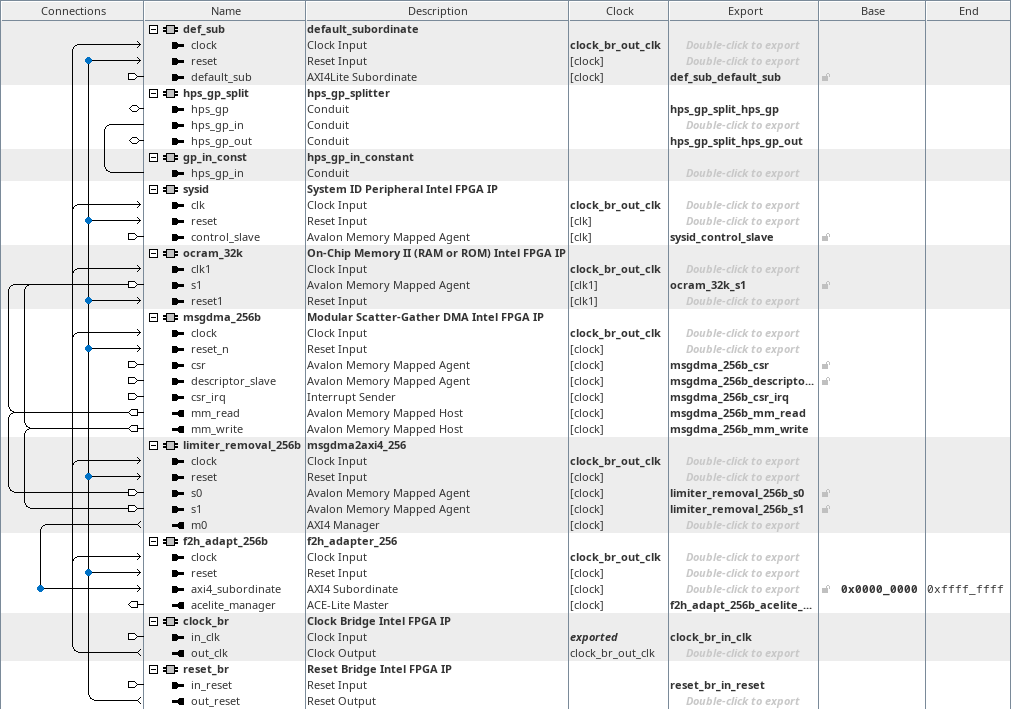
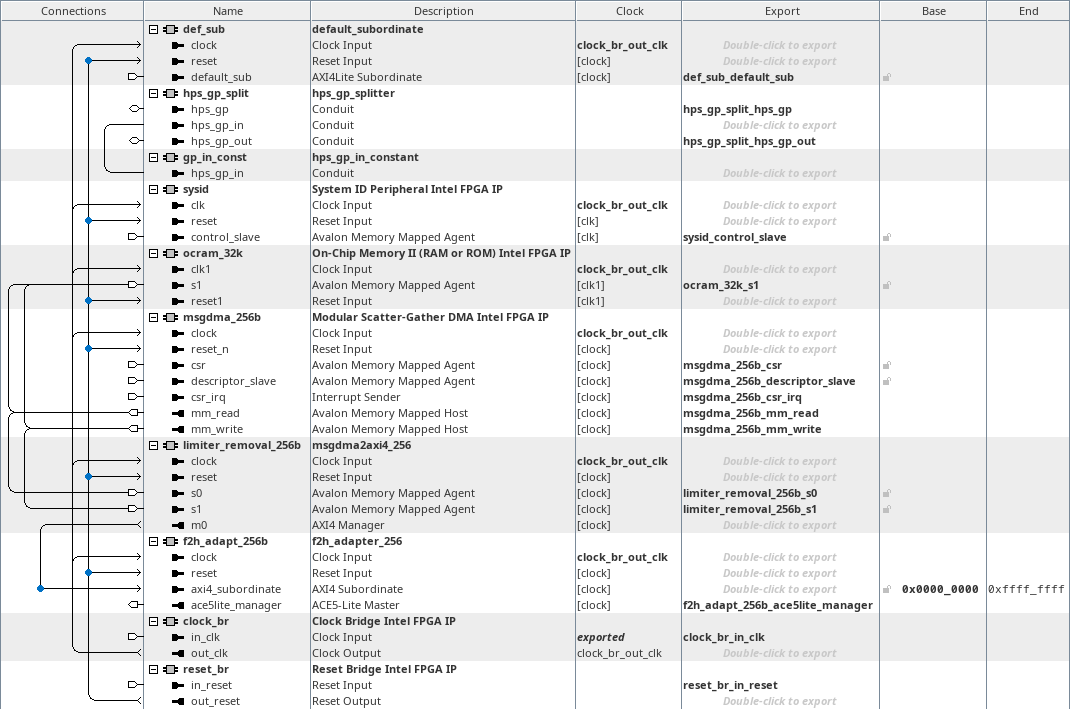
Update documentation images
Some of the screen captures from the QPDS 24.3 tools release are very
different from previous releases. Updating those screen shots from the
24.3 tools.

diff --git a/documentation/04_menu_il_hw_f2h_irq.md b/documentation/04_menu_il_hw_f2h_irq.md
@@ -25,15 +25,13 @@ The menu-i, f2h irq demo, and the menu-l, f2h irq handler demo, use the same har
 
 | hw_f2h_irq top level |
 | :---: |
-| ![hw_f2h_irq_top_lo.png](./images/captures/hw_f2h_irq_top_lo.png) |
-| ![hw_f2h_irq_top_hi.png](./images/captures/hw_f2h_irq_top_hi.png) |
+| ![hw_f2h_irq_top.png](./images/captures/hw_f2h_irq_top.png) |
 
 Inside the f2h_irq subsystem, we instantiate an hp_gp_splitter core and then drive a constant into the hps_gp_in interface and we take the hps_gp_out interface into an hps_gp_out_irq core that converts the lower six bits of the hps_gp_out interface into a 64-bit vector value when then connects into the f2h_irq interface.
 
 | f2h_irq subsystem |
 | :---: |
-| ![hw_f2h_irq_subsys_lo.png](./images/captures/hw_f2h_irq_subsys_lo.png) |
-| ![hw_f2h_irq_subsys_hi.png](./images/captures/hw_f2h_irq_subsys_hi.png) |
+| ![hw_f2h_irq_subsys.png](./images/captures/hw_f2h_irq_subsys.png) |
 
 ## Software demo - u-boot standalone - menu-i
 
